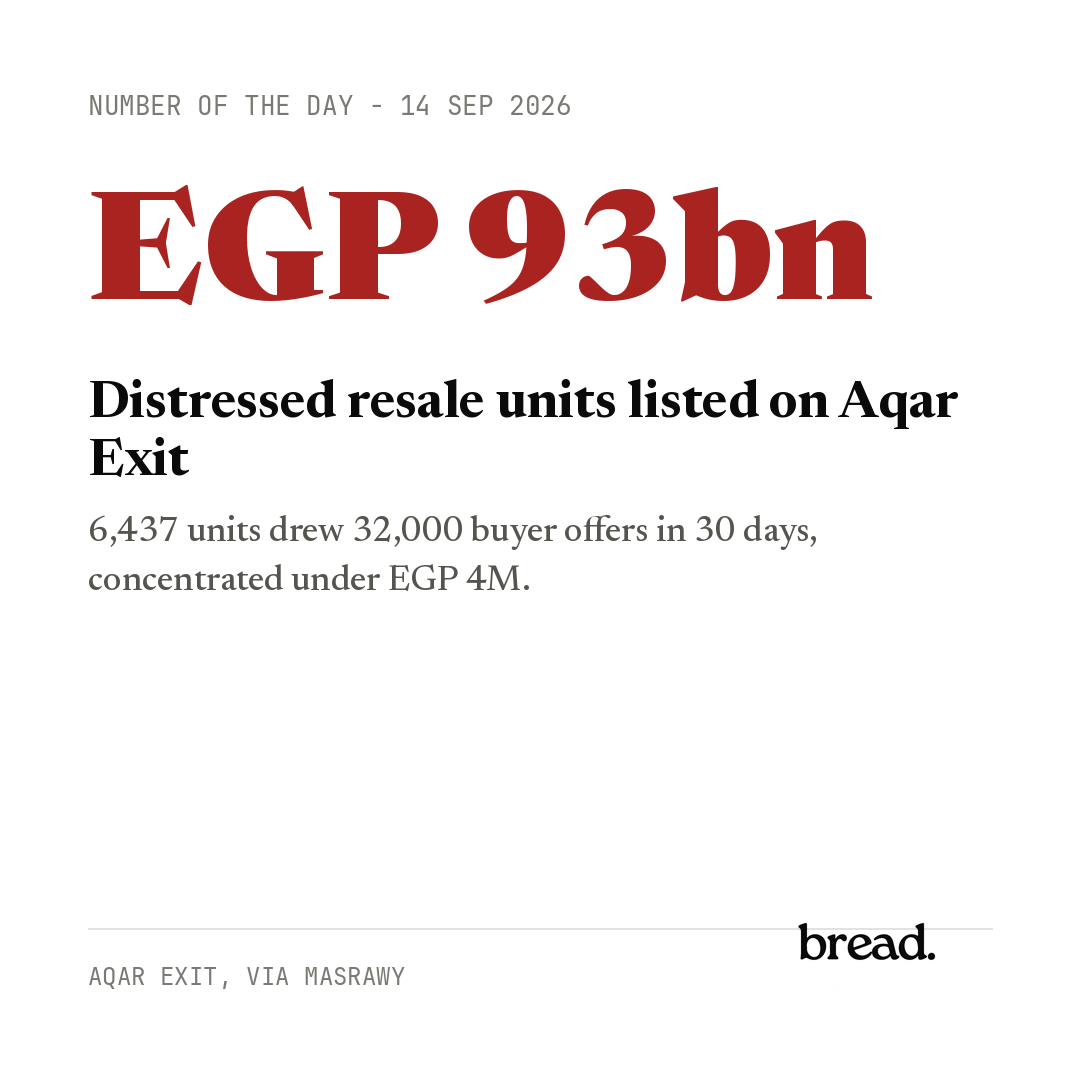
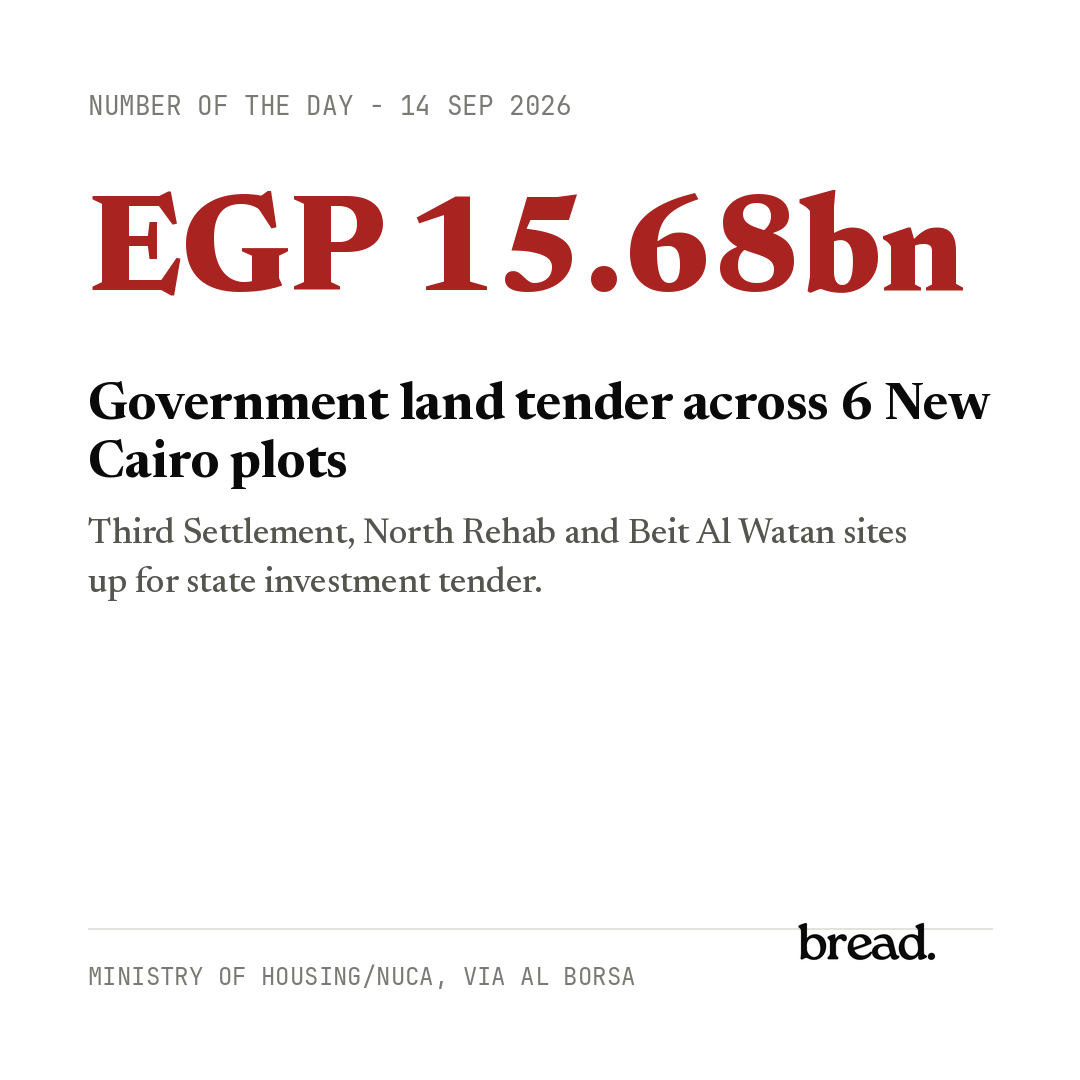
Fix: auto-shrink Number-of-the-Day font to fit long numbers; slot 1 real content for Sept 14

diff --git a/scripts/make_post.py b/scripts/make_post.py
@@ -90,9 +90,14 @@ def tpl_number(args):
     d.text((PAD, PAD), args.kicker, font=mono(26), fill=GREY_LIGHT)
 
     y = PAD + 100
-    f_num = newsreader(150, weight=800, opsz=72)
+    max_num_width = SIZE - 2 * PAD
+    num_size = 150
+    f_num = newsreader(num_size, weight=800, opsz=72)
+    while d.textlength(args.number, font=f_num) > max_num_width and num_size > 60:
+        num_size -= 6
+        f_num = newsreader(num_size, weight=800, opsz=max(6, min(72, num_size * 0.14)))
     d.text((PAD, y), args.number, font=f_num, fill=ACCENT_DEEP)
-    y += 190
+    y += int(num_size * 1.25) + 20
 
     f_what = newsreader(52, weight=700, opsz=40)
     y = draw_multiline(d, (PAD, y), args.what, f_what, INK, SIZE - 2 * PAD, line_gap=1.1) + 20
